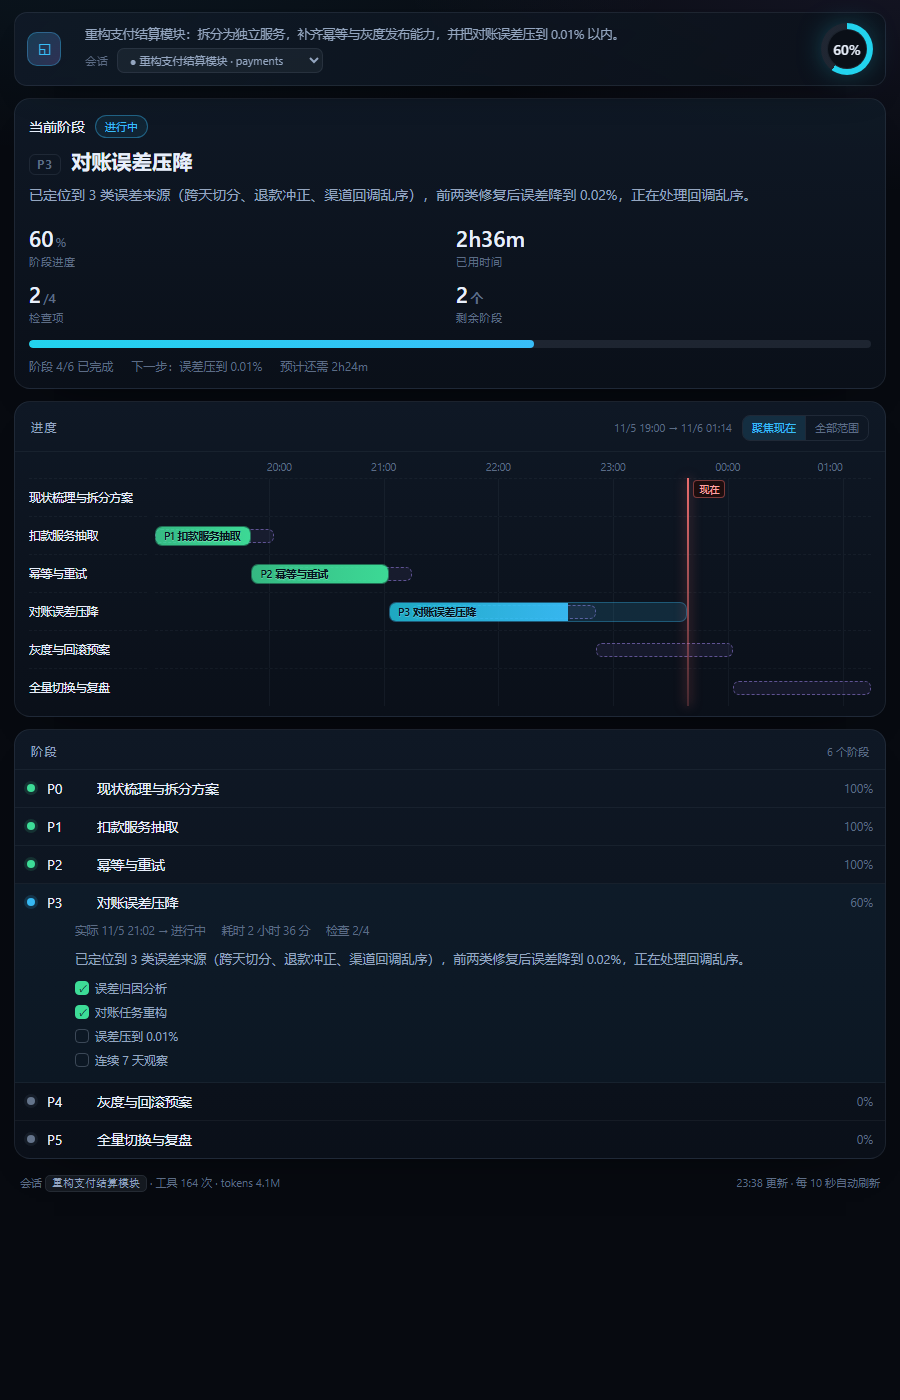
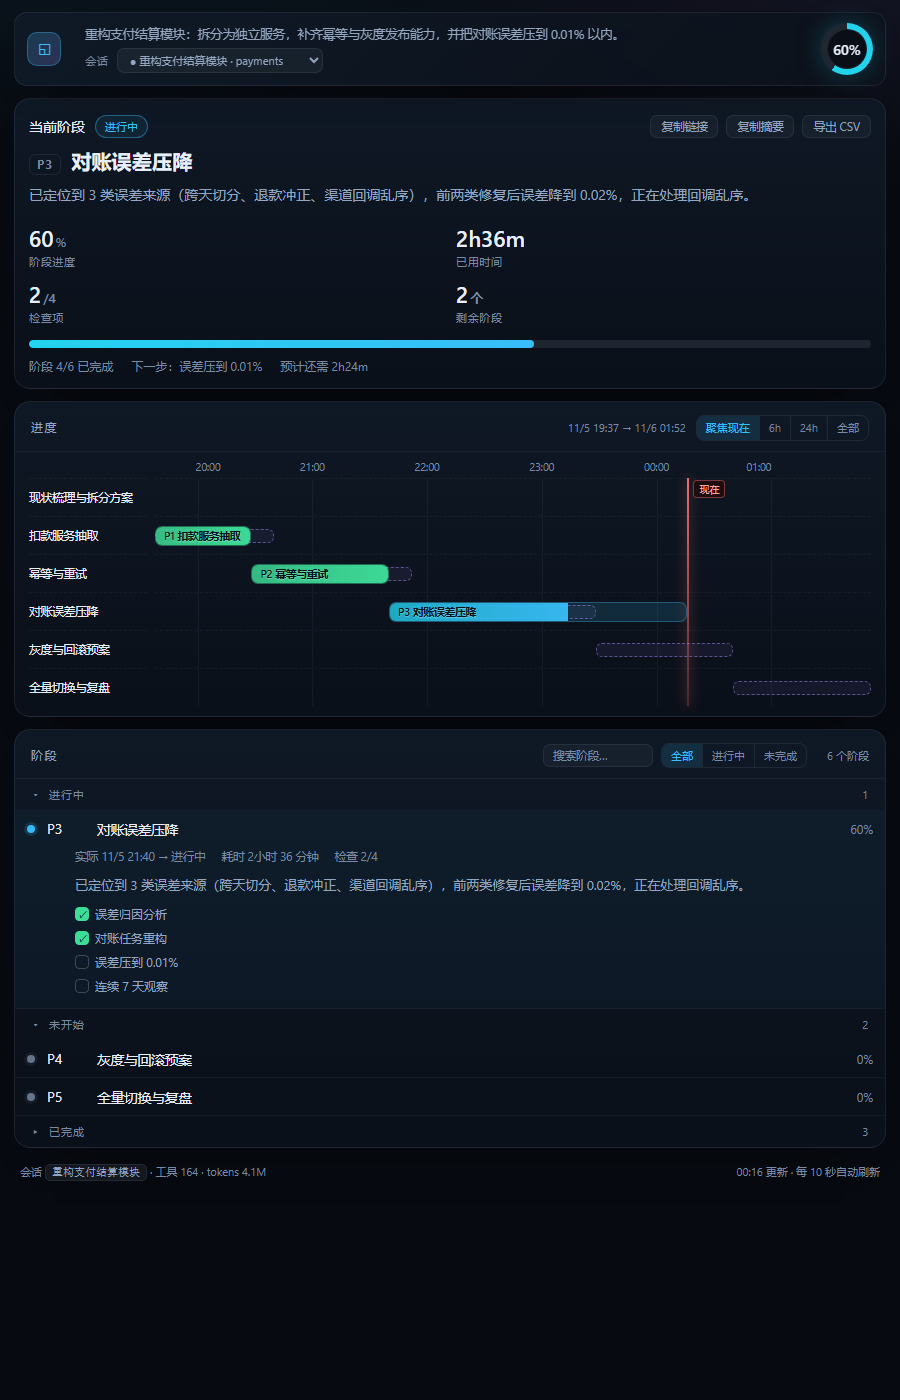
chore: docs polish for v0.27.0
- CHANGELOG gains the missing v0.21.0 entry and now covers v0.1 .. v0.27
- package description matches the current feature set
- docs/panel-900.png refreshed with the filter bar and grouped list

diff --git a/CHANGELOG.md b/CHANGELOG.md
@@ -22,6 +22,10 @@
 - Phase list is grouped into In progress / Not started / Blocked / Done.
 - The Done group is collapsed by default; group state persists in localStorage.
 
+## v0.21.0 — Relative times and expansion memory
+- Phase rows show “5h ago” or “2h36m in”.
+- Expanded phases persist in localStorage.
+
 ## v0.20.0 — Markdown summary
 - Hero gains a “copy summary” action that produces a paste-ready Markdown block
   (status icons, phase list, time left, round counter).
